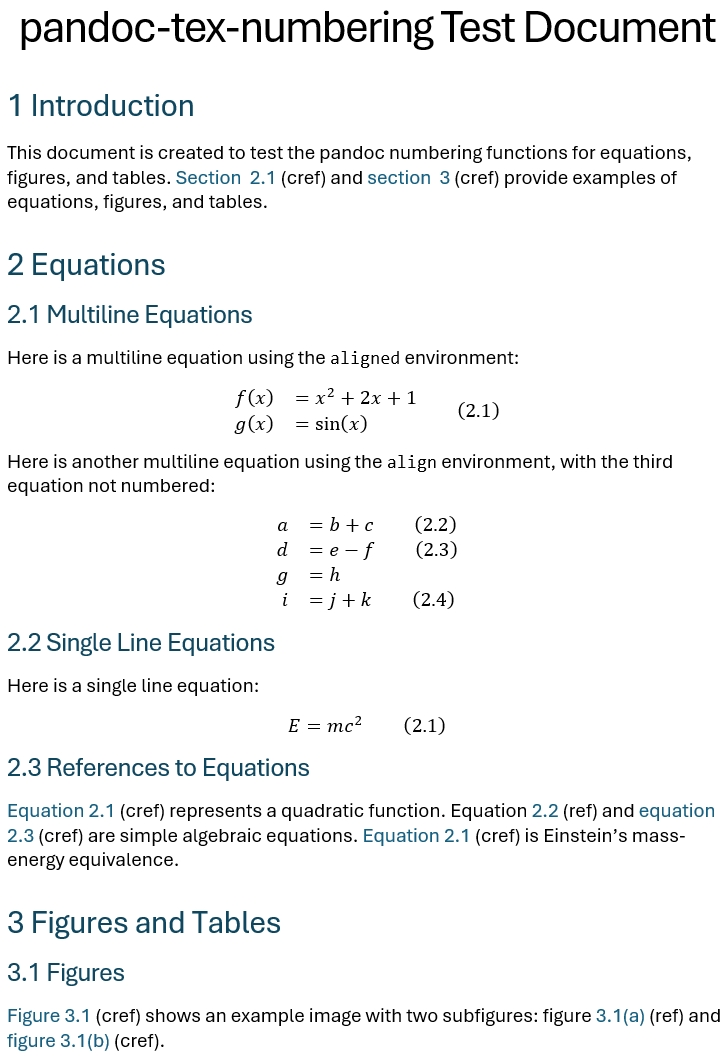
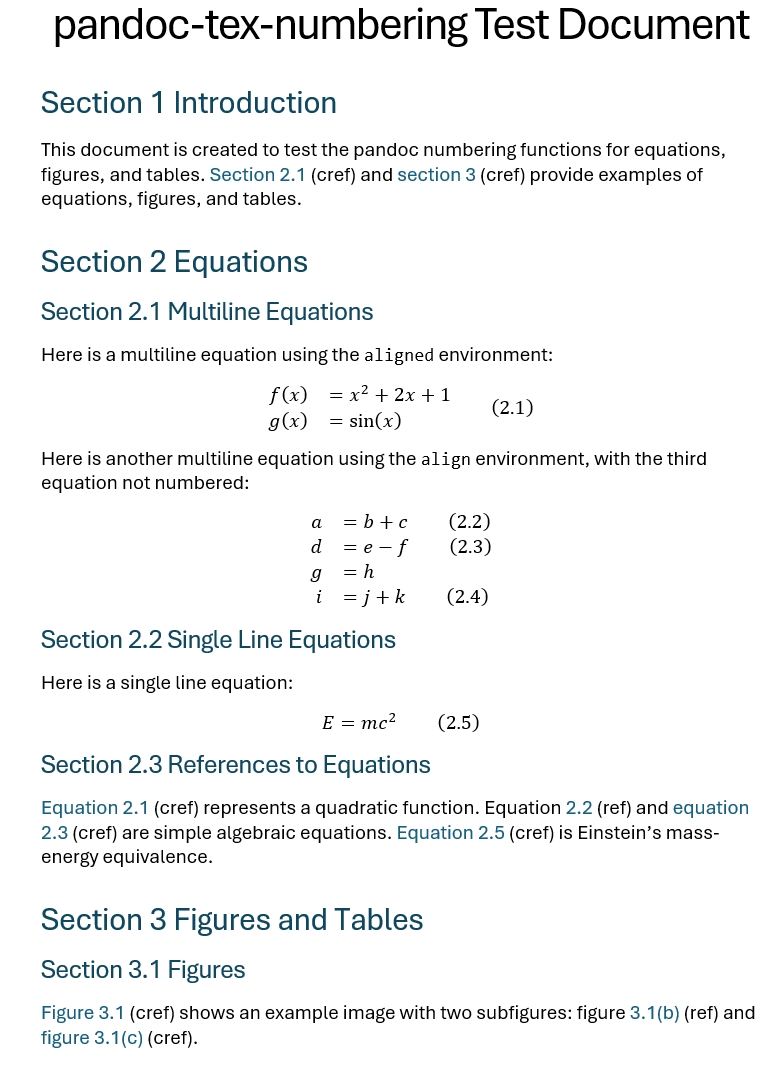
full support for multiple references

diff --git a/src/pandoc_tex_numbering/pandoc_tex_numbering.py b/src/pandoc_tex_numbering/pandoc_tex_numbering.py
@@ -58,7 +58,10 @@ def prepare(doc):
 
         "multiline_envs": doc.get_metadata("multiline-environments", "cases,align,aligned,gather,multline,flalign").split(","),
 
-        "ref_suppress_continous": doc.get_metadata("ref-suppress-continous", False),
+        "multiple_ref_suppress": doc.get_metadata("multiple-ref-suppress", True),
+        "multiple_ref_separator": doc.get_metadata("multiple-ref-separator", ", "),
+        "multiple_ref_last_separator": doc.get_metadata("multiple-ref-last-separator", " and "),
+        "multiple_ref_to": doc.get_metadata("multiple-ref-to", "-"),
 
         # custom list of figures and tables
         "custom_lof": doc.get_metadata("custom-lof", False),
@@ -130,7 +133,7 @@ def prepare(doc):
 
     formaters["sec"] = []
 
-    for i in range(max_levels):
+    for i in range(1,max_levels+1):
         i_th_formater = Formater(
             fmt_presets={
                 "src":doc.get_metadata(f"section-src-format-{i}", None),
@@ -415,6 +418,25 @@ def action_find_labels(elem, doc):
 def _num2link(num_obj,fmt_preset):
     return Link(Str(num_obj.format(fmt_preset=fmt_preset)),url=f"#{num_obj.label}")
 
+def join_items(items,doc):
+    if len(items) == 1:
+        if isinstance(items[0],list):
+            return items[0]
+        else:
+            return items
+    results = []
+    for i,item in enumerate(items):
+        if i != 0:
+            if i == len(items) - 1:
+                results.append(Str(doc.pandoc_tex_numbering["multiple_ref_last_separator"]))
+            else:
+                results.append(Str(doc.pandoc_tex_numbering["multiple_ref_separator"]))
+        if isinstance(item,list):
+            results.extend(item)
+        else:
+            results.append(item)
+    return results
+
 def labels2refs(labels,ref_type,doc):
     assert ref_type in ["ref","ref+label","ref+Label","eqref"], f"Unknown reference-type: {ref_type}"
     num_objs = []
@@ -426,7 +448,7 @@ def labels2refs(labels,ref_type,doc):
         else:
             logger.warning(f"Reference not found: {label}")
 
-    is_suppress = doc.pandoc_tex_numbering["ref_suppress_continous"]
+    is_suppress = doc.pandoc_tex_numbering["multiple_ref_suppress"]
     chunks = numberings2chunks(num_objs,split_continous=is_suppress)
     
     first_fmt_preset = {
@@ -455,34 +477,21 @@ def labels2refs(labels,ref_type,doc):
                 chunk_result = [_num2link(chunk[0],chunk_first_fmt_preset)]
             elif is_suppress:
                 chunk_result = [
-                    _num2link(chunk[0],chunk_first_fmt_preset),
-                    Str("-"),
-                    _num2link(chunk[-1],"ref")
+                    [_num2link(chunk[0],chunk_first_fmt_preset),
+                    Str(doc.pandoc_tex_numbering["multiple_ref_to"]),
+                    _num2link(chunk[-1],"ref")]
                 ]
             else:
                 chunk_result = [
                     _num2link(chunk[0],chunk_first_fmt_preset),
                 ]
                 for num_obj in chunk[1:]:
-                    chunk_result.extend([
-                        Str(", "),
+                    chunk_result.append([
                         _num2link(num_obj,"ref"),
                     ])
-            if len(item_results)!=0:
-                item_results.append(Str(", "))
-            item_results.extend(chunk_result)
-        if len(item_results) >= 3:
-            item_results[-2] = Str(" and ")
-        results_list.append(item_results)
-    results = []
-    n_item_types = len(results_list)
-    for idx,item_results in enumerate(results_list):
-        if idx != 0:
-            if idx == n_item_types - 1:
-                results.append(Str(", and "))
-            else:
-                results.append(Str(", "))
-        results.extend(item_results)
+            item_results.append(join_items(chunk_result,doc))
+        results_list.append(join_items(item_results,doc))
+    results = join_items(results_list,doc)
     return results
 
 
@@ -490,7 +499,6 @@ def action_replace_refs(elem, doc):
     if isinstance(elem, Link) and 'reference-type' in elem.attributes:
         labels = elem.attributes['reference'].split(",")
         results = labels2refs(labels,elem.attributes['reference-type'],doc)
-        # logger.info(f"Results: {results}")
         doc.pandoc_tex_numbering["links2replace"].append((elem,results))
 
 def main(doc=None):

diff --git a/README.md b/README.md
@@ -18,6 +18,7 @@ This is an all-in-one pandoc filter for converting your LaTeX files to any forma
       - [Metadata Values](#metadata-values)
   - [Equations](#equations)
   - [List of Figures and Tables](#list-of-figures-and-tables)
+  - [Multiple References](#multiple-references)
 - [Details](#details)
   - [Equations](#equations-1)
   - [List of Figures and Tables](#list-of-figures-and-tables-1)
@@ -150,6 +151,14 @@ You can customize the list of figures and tables by setting the following metada
 
 For more details, see the [List of Figures and Tables](#list-of-figures-and-tables) section.
 
+## Multiple References
+- `multiple-ref-suppress`: Whether to suppress the multiple references. Default is `true`. If set to `true`, the multiple references will be suppressed. For example, if you have `\cref{eq1,eq2,eq3,eq4}`, it will be shown as "equations 1-4" instead of "equations 1, 2, 3 and 4".
+- `multiple-ref-separator`: The separator between the multiple references. Default is ", ". For example, if you set it to "; ", the multiple references will be shown as "equations 1; 2; 3 and 4".
+- `multiple-ref-last-separator`: The separator between the last two references. Default is " and ". For example, if you set it to " & ", the multiple references will be shown as "equations 1, 2, 3 & 4".
+- `multiple-ref-to`: The separator between suppressed multiple references. Default is "-". For example, if you set it to " to ", the multiple references will be shown as "equations 1 to 4".
+
+NOTE: in case of setting metadata in a yaml file, the spaces at the beginning and the end of the values are by default stripped. Therefore, if you want to keep the spaces in the yaml metadata file, **you should mannually escape those spaces via double slashes.** For example, if you want set `multiple-ref-last-separator` to `" and "` (spaces appear at the beginning and the end), you should set it as `"\\ and\\ "` in the yaml file. See pandoc's [issue #10539](https://github.com/jgm/pandoc/issues/10539) for more further discussions.
+
 # Details
 
 ## Equations
@@ -256,6 +265,10 @@ In the following example, we custom the following **silly** items *only for the 
 - Turn on custom list of figures and tables and:
   - Use custom titles as "图片目录" and "Table Lists" respectively.
   - Use hyphens as the leader in the lists.
+- For multiple references:
+  - Stop suppressing the multiple references.
+  - Use "、" as the separator between the multiple references.
+  - Use " & "(spaces at both ends) as the last separator between the last two references.
 - Export the filter data to a file named `data.json`.
 
 Run the following command with corresponding metadata in a `metadata.yaml` file (**recommended**):
@@ -278,7 +291,7 @@ section-cref-format-2: "第{h1}.{h2}节"
 table-src-format: "Table {h1}-{h2}-{tab_id}"
 table-cref-format: "table {tab_id} (in Section {h1}.{h2})"
 figure-src-format: "Figure {h1}.{h2}:{fig_id}"
-figure-cref-format: "as shown in Fig. {num},"
+figure-cref-format: "as shown in Fig. {num}"
 equation-src-format: "({h1}-{h2}-{eq_id})"
 subfigure-src-format: "[{subfig_sym}({subfig_id})]"
 subfigure-symbols: "αβγδεζηθικλμνξοπρστυφχψω"
@@ -288,11 +301,15 @@ lot-title: "Table List"
 lof-title: "图片目录"
 list-leader-type: "hyphen"
 data-export-path: "data.json"
+multiple-ref-suppress: false
+multiple-ref-separator: "、"
+multiple-ref-last-separator: "\\ &\\ "
 ```
 
 The results are shown as follows:
 ![alt text](https://github.com/fncokg/pandoc-tex-numbering/blob/main/images/custom-page1.jpg?raw=true)
 ![alt text](https://github.com/fncokg/pandoc-tex-numbering/blob/main/images/custom-page2.jpg?raw=true)
+![alt text](https://github.com/fncokg/pandoc-tex-numbering/blob/main/images/custom-page3.jpg?raw=true)
 
 # Development
 
@@ -333,7 +350,7 @@ That said, however, functionalities mentioned above can never be supported easil
 # TODO
 
 There are some known issues and possible improvements:
-- [ ] Support multiple references in `cleveref` package.
+- [x] Support multiple references in `cleveref` package.
 - [x] Add empty caption for figures and tables without captions (currently, they have no caption and therefore links to them cannot be located).
 - [ ] Directly support `align*` and other non-numbered environments.
 - [x] Subfigure support.

diff --git a/CHANGELOG.md b/CHANGELOG.md
@@ -1,3 +1,7 @@
+# 1.2.2 (2025-01-15)
+
+Support multiple references in the same ref command, such as \cref{fig1,fig2,fig3}.
+
 # 1.2.1 (2025-01-13)
 
 Fix a severe numbering logic bug in the previous version. Now the numbering system should work as expected.
